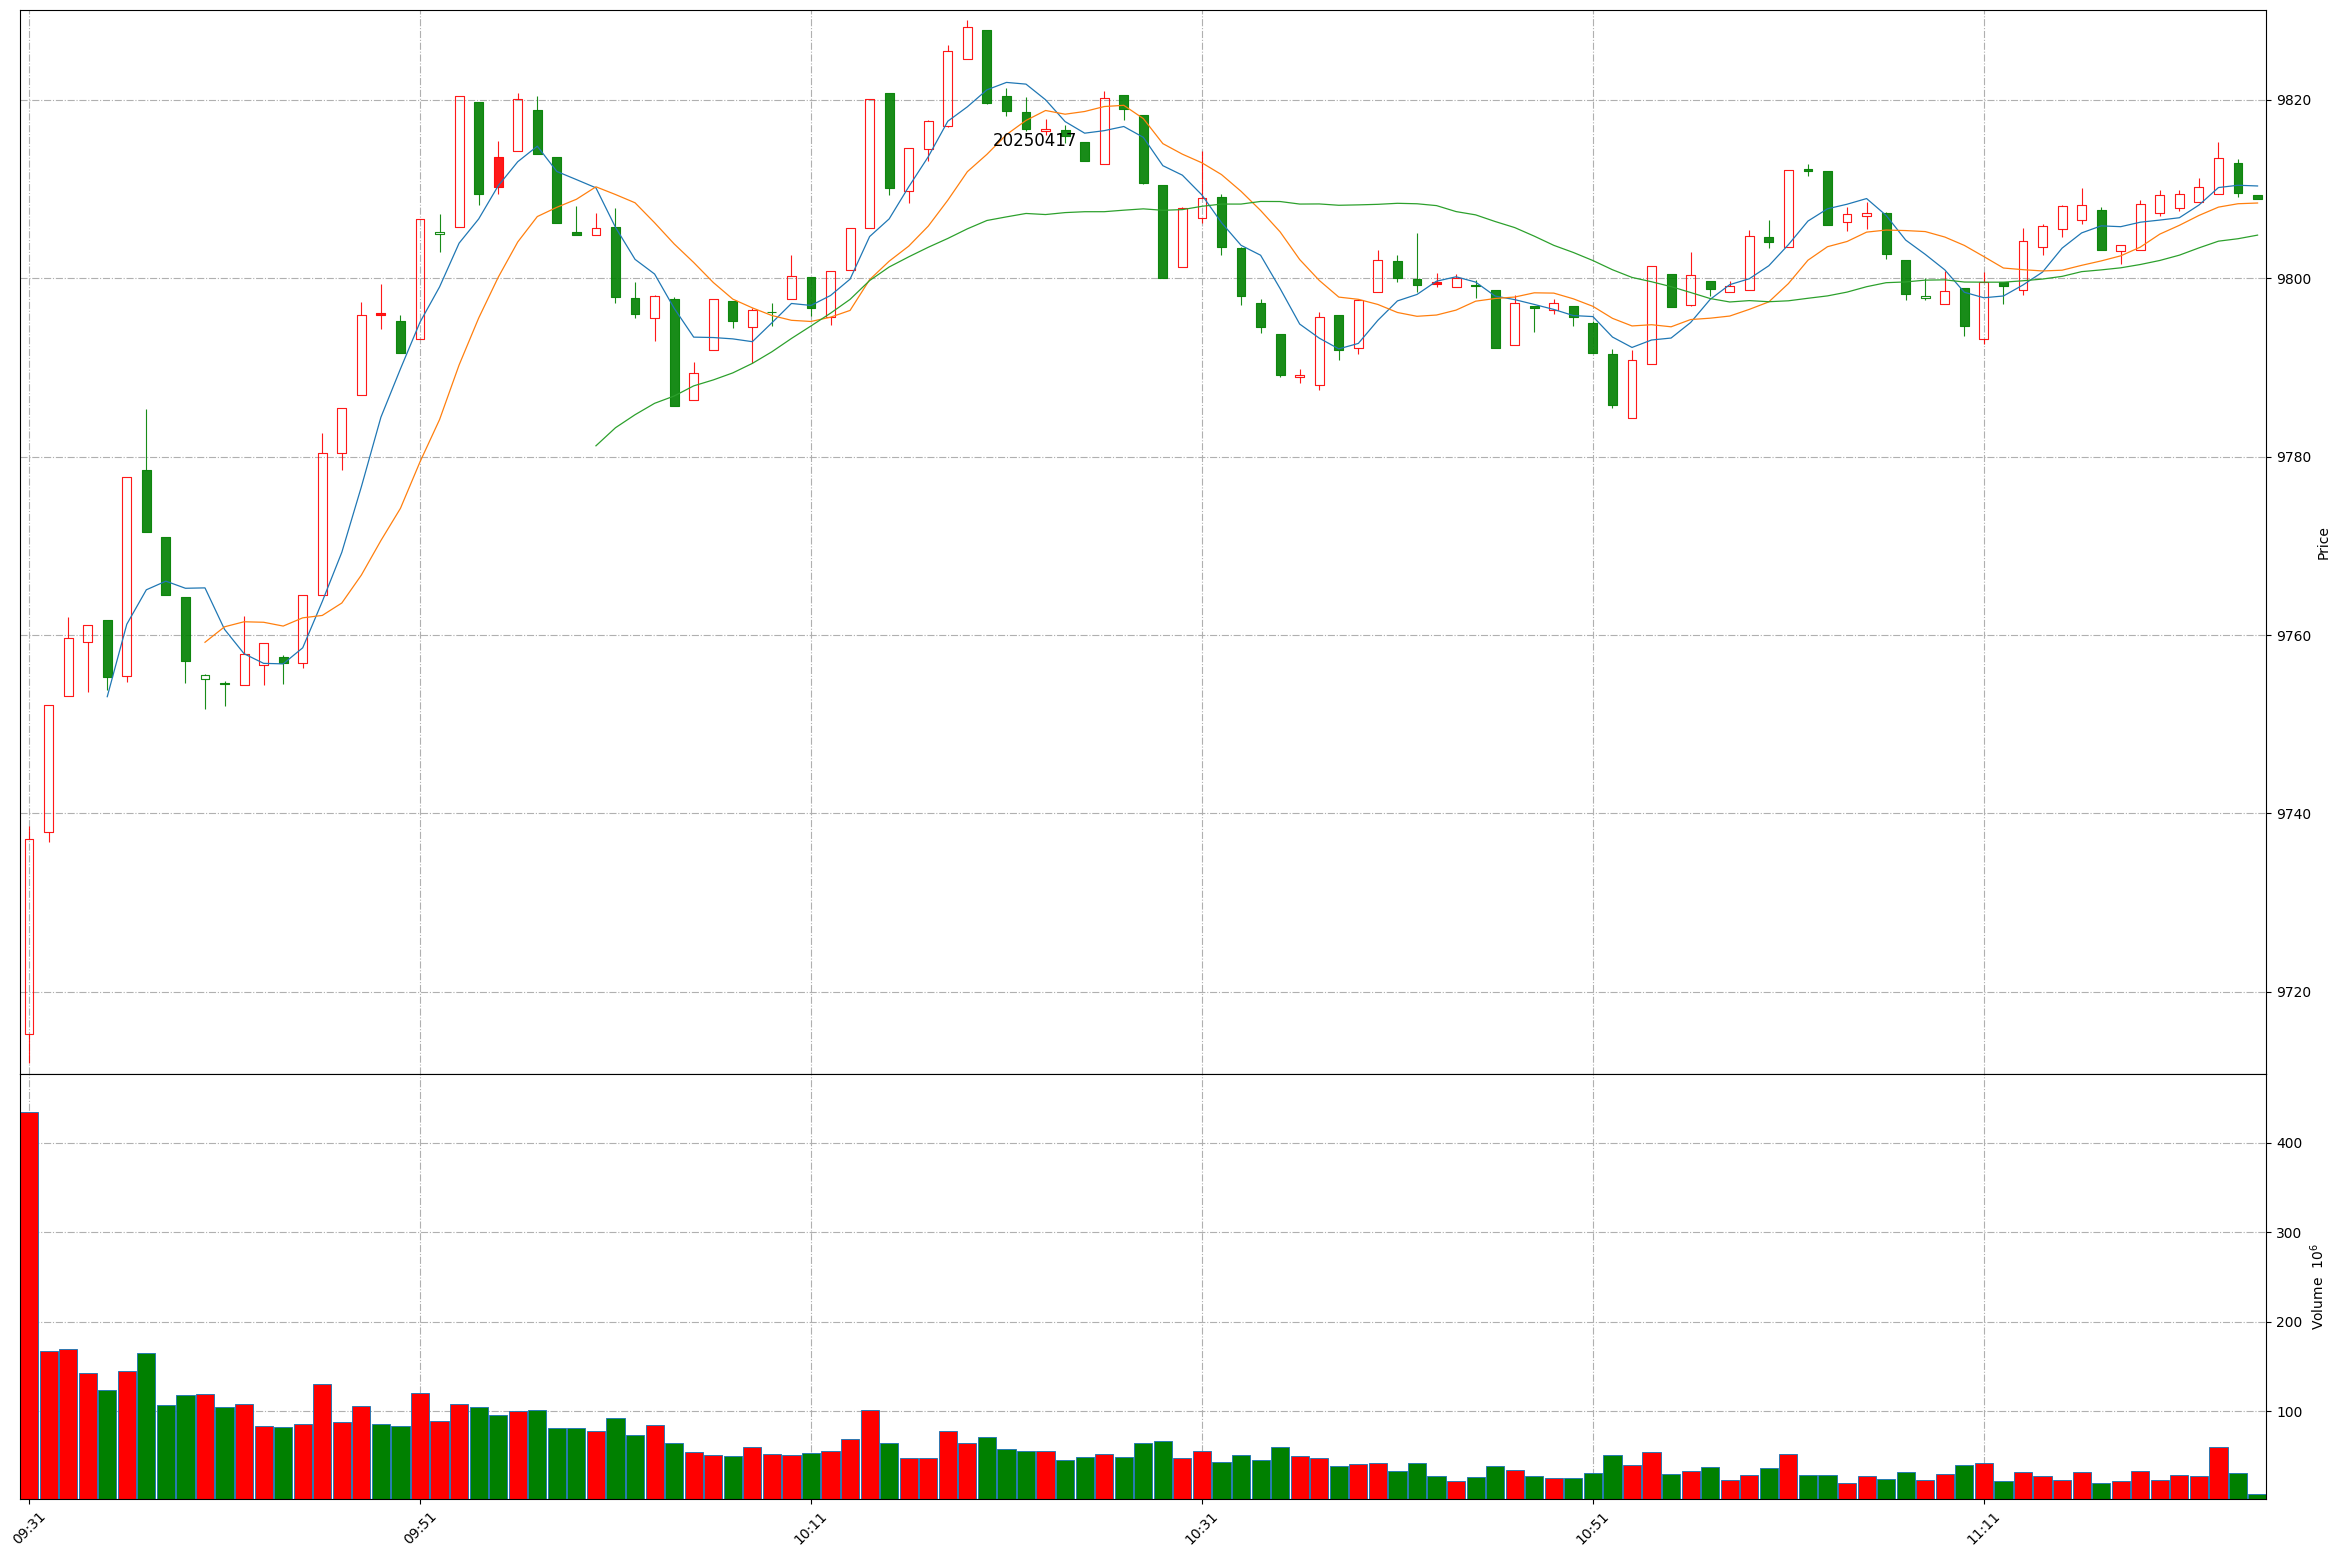
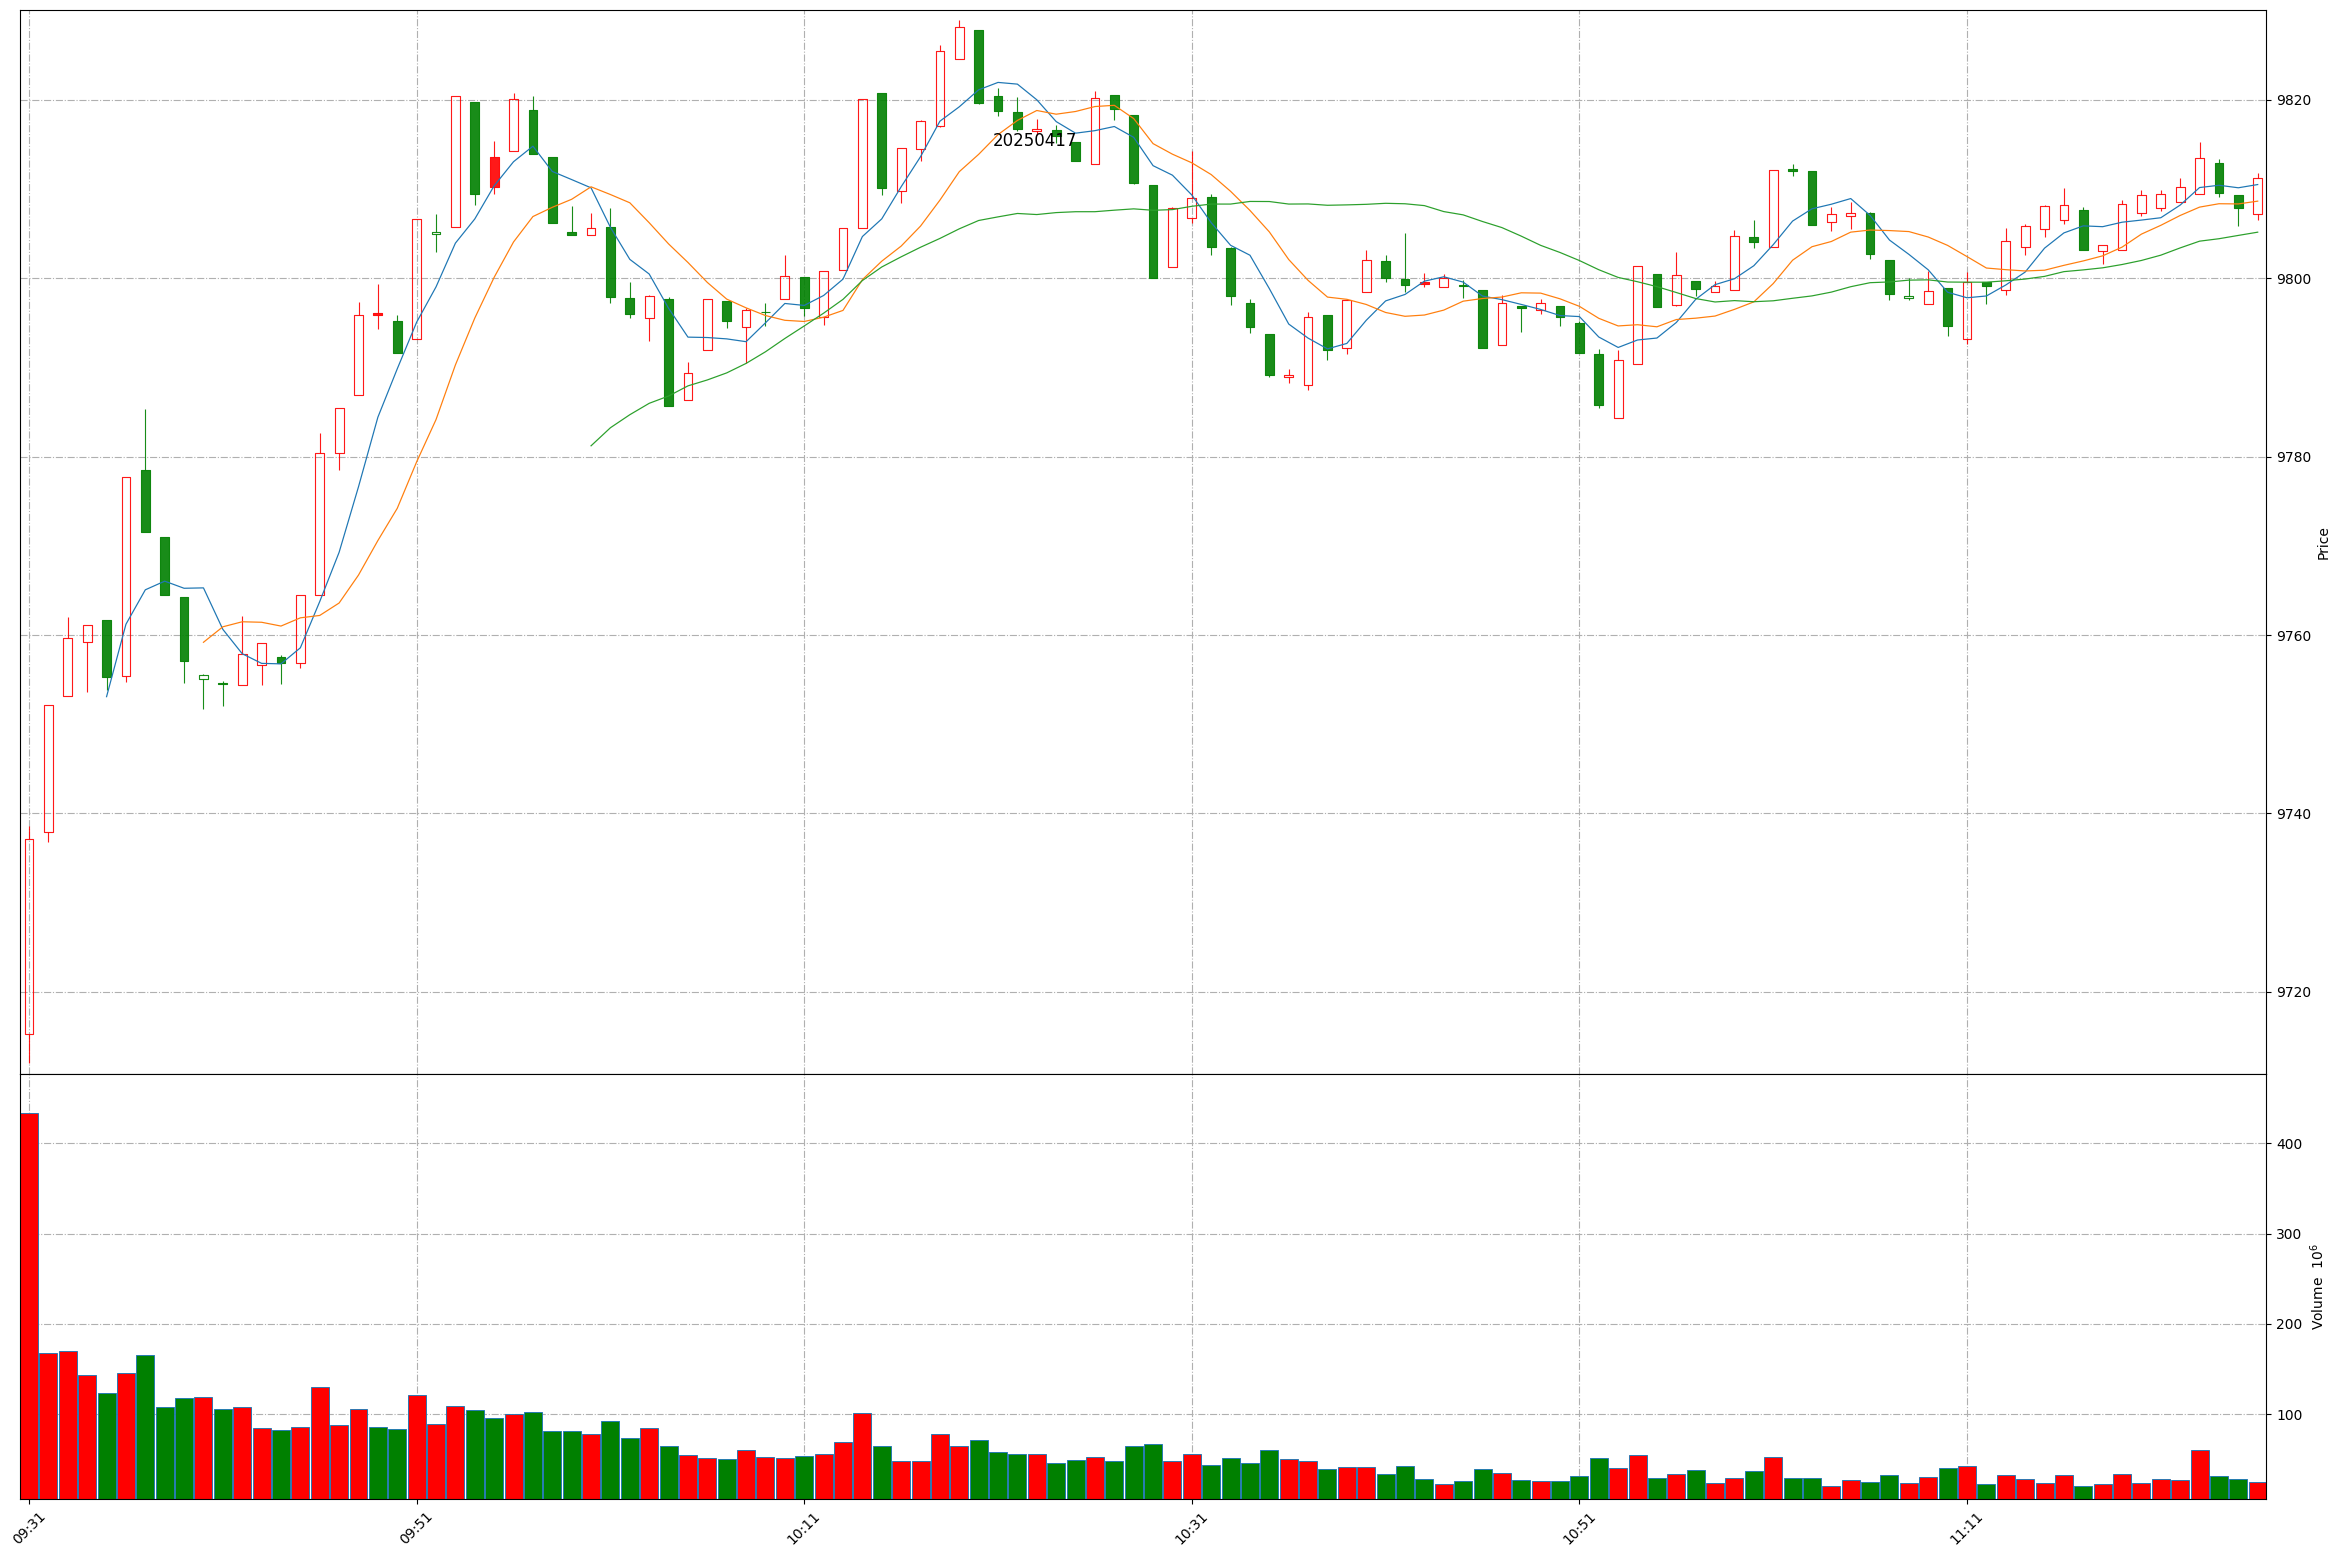
Github action update at 2025-04-17 11:26:11.

diff --git a/README.md b/README.md
@@ -1,11 +1,11 @@
 
 # Daily-A-share-market-quotes 每日 A 股指数（5min 更新）- 20250417
 
-### 上证指数 20250417 11:24
+### 上证指数 20250417 11:26
 ![](./fig/2025/4/20250417-sh000001.png)
 
-### 深证成指 20250417 11:24
+### 深证成指 20250417 11:26
 ![](./fig/2025/4/20250417-sz399001.png)
 
-### 北证50 20250417 11:24
+### 北证50 20250417 11:26
 ![](./fig/2025/4/20250417-bj899050.png)
